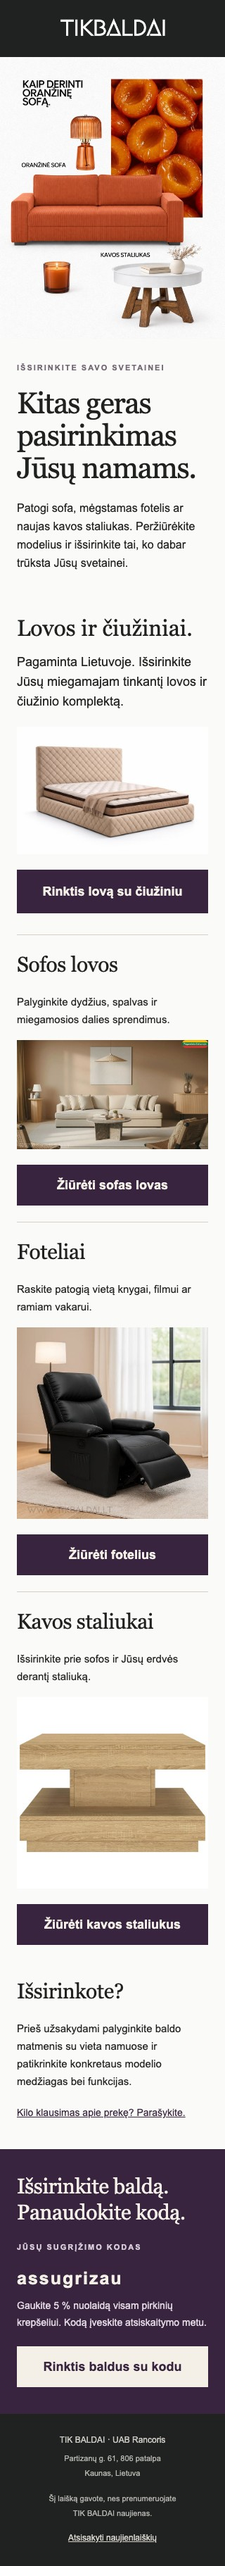
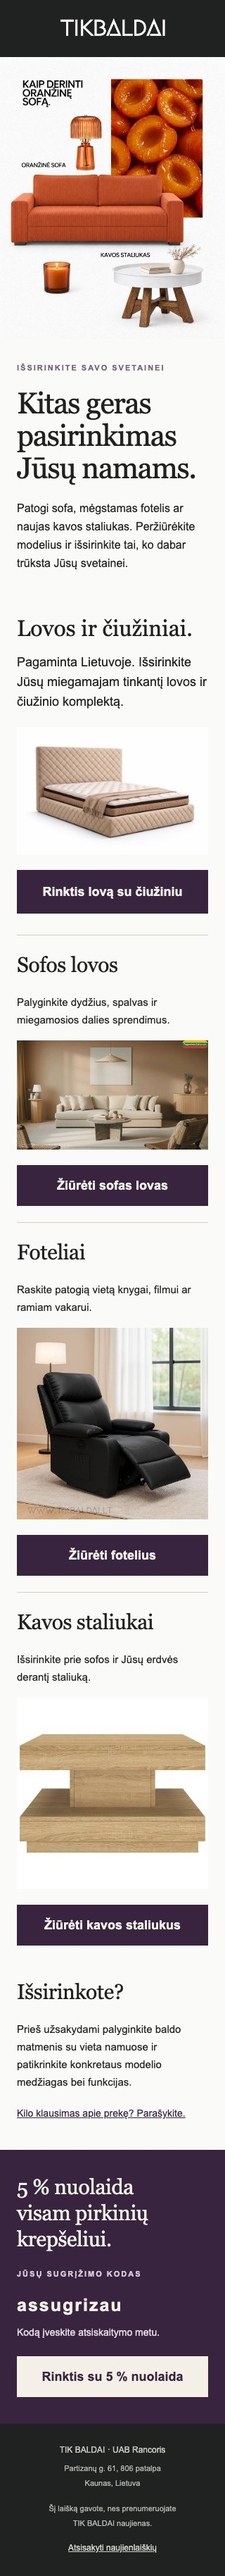
Make 5 percent winback offer prominent in final email

diff --git a/winback/email-03-stripped.html b/winback/email-03-stripped.html
@@ -11,5 +11,5 @@
 </td></tr><tr><td class="pad" bgcolor="#FAFAF8" align="left" style="padding:0 24px 10px;background-color:#FAFAF8;"><table class="shop-choice" role="presentation" width="100%" cellpadding="0" cellspacing="0" style="width:100%;border-top:1px solid #D7CFC5;"><tr><td style="padding:23px 0;"><h2 class="section-title" style="margin:0 0 22px;font:normal 30px/37px Georgia,Times New Roman,serif;letter-spacing:-.4px;color:#202221;">Sofos lovos</h2><p style="margin:0 0 17px;font:15px/25px Arial,Helvetica,sans-serif;color:#202221;">Palyginkite dydžius, spalvas ir miegamosios dalies sprendimus.</p><a href="https://tikbaldai.lt/collections/sofos-lovos?utm_source=automation&amp;utm_medium=email&amp;utm_campaign=winback_03&amp;utm_content=category_sofas" style="display:block;margin:4px 0 22px;"><img src="https://raw.githubusercontent.com/elaiskai/tikbaldai/0b7fb0ce9043a1ca71c5f79d17c7e15d7316c611/winback/assets/room.jpg" width="520" alt="Šviesi sofa svetainės interjere" style="display:block;width:100%;max-width:520px;height:auto;border:0;"></a><!--[if mso]><v:roundrect xmlns:v="urn:schemas-microsoft-com:vml" xmlns:w="urn:schemas-microsoft-com:office:word" href="https://tikbaldai.lt/collections/sofos-lovos?utm_source=automation&amp;utm_medium=email&amp;utm_campaign=winback_03&amp;utm_content=category_sofas" style="height:62px;v-text-anchor:middle;width:520px;" arcsize="0%" stroke="f" fillcolor="#38243F"><w:anchorlock/><center style="font-family:Arial;font-size:15px;font-weight:bold;color:#F4F0E8;">Žiūrėti sofas lovas</center></v:roundrect><![endif]-->
 <!--[if !mso]><!--><table role="presentation" cellpadding="0" cellspacing="0" border="0" width="100%" style="width:100%;"><tr><td bgcolor="#38243F"><a class="cta" href="https://tikbaldai.lt/collections/sofos-lovos?utm_source=automation&amp;utm_medium=email&amp;utm_campaign=winback_03&amp;utm_content=category_sofas" style="display:block;padding:16px 10px;font:700 18px/26px Arial,Helvetica,sans-serif;text-align:center;text-decoration:none;background-color:#38243F;color:#F4F0E8;">Žiūrėti sofas lovas</a></td></tr></table><!--<![endif]--></td></tr></table><table class="shop-choice" role="presentation" width="100%" cellpadding="0" cellspacing="0" style="width:100%;border-top:1px solid #D7CFC5;"><tr><td style="padding:23px 0;"><h2 class="section-title" style="margin:0 0 22px;font:normal 30px/37px Georgia,Times New Roman,serif;letter-spacing:-.4px;color:#202221;">Foteliai</h2><p style="margin:0 0 17px;font:15px/25px Arial,Helvetica,sans-serif;color:#202221;">Raskite patogią vietą knygai, filmui ar ramiam vakarui.</p><a href="https://tikbaldai.lt/collections/foteliai-kedes?utm_source=automation&amp;utm_medium=email&amp;utm_campaign=winback_03&amp;utm_content=category_armchairs" style="display:block;margin:4px 0 22px;"><img src="https://raw.githubusercontent.com/elaiskai/tikbaldai/0b7fb0ce9043a1ca71c5f79d17c7e15d7316c611/winback/assets/relax.jpg" width="520" alt="Fotelis su išskleidžiamu pakoju" style="display:block;width:100%;max-width:520px;height:auto;border:0;"></a><!--[if mso]><v:roundrect xmlns:v="urn:schemas-microsoft-com:vml" xmlns:w="urn:schemas-microsoft-com:office:word" href="https://tikbaldai.lt/collections/foteliai-kedes?utm_source=automation&amp;utm_medium=email&amp;utm_campaign=winback_03&amp;utm_content=category_armchairs" style="height:62px;v-text-anchor:middle;width:520px;" arcsize="0%" stroke="f" fillcolor="#38243F"><w:anchorlock/><center style="font-family:Arial;font-size:15px;font-weight:bold;color:#F4F0E8;">Žiūrėti fotelius</center></v:roundrect><![endif]-->
 <!--[if !mso]><!--><table role="presentation" cellpadding="0" cellspacing="0" border="0" width="100%" style="width:100%;"><tr><td bgcolor="#38243F"><a class="cta" href="https://tikbaldai.lt/collections/foteliai-kedes?utm_source=automation&amp;utm_medium=email&amp;utm_campaign=winback_03&amp;utm_content=category_armchairs" style="display:block;padding:16px 10px;font:700 18px/26px Arial,Helvetica,sans-serif;text-align:center;text-decoration:none;background-color:#38243F;color:#F4F0E8;">Žiūrėti fotelius</a></td></tr></table><!--<![endif]--></td></tr></table><table class="shop-choice" role="presentation" width="100%" cellpadding="0" cellspacing="0" style="width:100%;border-top:1px solid #D7CFC5;"><tr><td style="padding:23px 0;"><h2 class="section-title" style="margin:0 0 22px;font:normal 30px/37px Georgia,Times New Roman,serif;letter-spacing:-.4px;color:#202221;">Kavos staliukai</h2><p style="margin:0 0 17px;font:15px/25px Arial,Helvetica,sans-serif;color:#202221;">Išsirinkite prie sofos ir Jūsų erdvės derantį staliuką.</p><a href="https://tikbaldai.lt/collections/kavos-staliukai?utm_source=automation&amp;utm_medium=email&amp;utm_campaign=winback_03&amp;utm_content=category_tables" style="display:block;margin:4px 0 22px;"><img src="https://raw.githubusercontent.com/elaiskai/tikbaldai/0b7fb0ce9043a1ca71c5f79d17c7e15d7316c611/winback/assets/table.jpg" width="520" alt="Medžio atspalvio kavos staliukas" style="display:block;width:100%;max-width:520px;height:auto;border:0;"></a><!--[if mso]><v:roundrect xmlns:v="urn:schemas-microsoft-com:vml" xmlns:w="urn:schemas-microsoft-com:office:word" href="https://tikbaldai.lt/collections/kavos-staliukai?utm_source=automation&amp;utm_medium=email&amp;utm_campaign=winback_03&amp;utm_content=category_tables" style="height:62px;v-text-anchor:middle;width:520px;" arcsize="0%" stroke="f" fillcolor="#38243F"><w:anchorlock/><center style="font-family:Arial;font-size:15px;font-weight:bold;color:#F4F0E8;">Žiūrėti kavos staliukus</center></v:roundrect><![endif]-->
-<!--[if !mso]><!--><table role="presentation" cellpadding="0" cellspacing="0" border="0" width="100%" style="width:100%;"><tr><td bgcolor="#38243F"><a class="cta" href="https://tikbaldai.lt/collections/kavos-staliukai?utm_source=automation&amp;utm_medium=email&amp;utm_campaign=winback_03&amp;utm_content=category_tables" style="display:block;padding:16px 10px;font:700 18px/26px Arial,Helvetica,sans-serif;text-align:center;text-decoration:none;background-color:#38243F;color:#F4F0E8;">Žiūrėti kavos staliukus</a></td></tr></table><!--<![endif]--></td></tr></table></td></tr><tr><td class="pad" bgcolor="#FAFAF8" align="left" style="padding:14px 24px 28px;background-color:#FAFAF8;"><h2 class="section-title" style="margin:0 0 22px;font:normal 30px/37px Georgia,Times New Roman,serif;letter-spacing:-.4px;color:#202221;">Išsirinkote?</h2><p style="margin:0 0 8px;font:15px/25px Arial,Helvetica,sans-serif;color:#202221;">Prieš užsakydami palyginkite baldo matmenis su vieta namuose ir patikrinkite konkretaus modelio medžiagas bei funkcijas.</p><a class="cta" href="mailto:info@tikbaldai.lt" style="display:inline-block;padding:13px 0;font:14px/22px Arial,Helvetica,sans-serif;color:#38243F;text-decoration:underline;">Kilo klausimas apie prekę? Parašykite.</a></td></tr><tr><td class="pad" bgcolor="#38243F" align="left" style="padding:34px 24px 38px;background-color:#38243F;"><h2 class="section-title" style="margin:0 0 22px;font:normal 30px/37px Georgia,Times New Roman,serif;letter-spacing:-.4px;color:#F4F0E8;">Išsirinkite baldą.<br>Panaudokite kodą.</h2><p style="margin:0 0 18px;font:11px/18px Arial,Helvetica,sans-serif;font-weight:bold;letter-spacing:2px;color:#D7CBD9;">JŪSŲ SUGRĮŽIMO KODAS</p><p style="margin:0 0 10px;font:700 25px/34px Arial,Helvetica,sans-serif;letter-spacing:2px;color:#F4F0E8;">assugrizau</p><p style="margin:0;font:14px/24px Arial,Helvetica,sans-serif;color:#E1D8E2;">Gaukite 5 % nuolaidą visam pirkinių krepšeliui. Kodą įveskite atsiskaitymo metu.</p><div style="height:22px;line-height:22px;">&nbsp;</div><!--[if mso]><v:roundrect xmlns:v="urn:schemas-microsoft-com:vml" xmlns:w="urn:schemas-microsoft-com:office:word" href="https://tikbaldai.lt/collections/populiariausi?utm_source=automation&amp;utm_medium=email&amp;utm_campaign=winback_03&amp;utm_content=return_offer" style="height:62px;v-text-anchor:middle;width:520px;" arcsize="0%" stroke="f" fillcolor="#F4F0E8"><w:anchorlock/><center style="font-family:Arial;font-size:15px;font-weight:bold;color:#38243F;">Rinktis baldus su kodu</center></v:roundrect><![endif]-->
-<!--[if !mso]><!--><table role="presentation" cellpadding="0" cellspacing="0" border="0" width="100%" style="width:100%;"><tr><td bgcolor="#F4F0E8"><a class="cta" href="https://tikbaldai.lt/collections/populiariausi?utm_source=automation&amp;utm_medium=email&amp;utm_campaign=winback_03&amp;utm_content=return_offer" style="display:block;padding:16px 10px;font:700 18px/26px Arial,Helvetica,sans-serif;text-align:center;text-decoration:none;background-color:#F4F0E8;color:#38243F;">Rinktis baldus su kodu</a></td></tr></table><!--<![endif]--></td></tr><tr><td class="pad" bgcolor="#202221" align="center" style="padding:26px 24px 16px;background-color:#202221;"><p style="margin:0 0 5px;font:12px/22px Arial,Helvetica,sans-serif;color:#CAC9C3;">TIK BALDAI · UAB Rancoris</p><p style="margin:0 0 15px;font:11px/21px Arial,Helvetica,sans-serif;color:#B7B7B1;">Partizanų g. 61, 806 patalpa<br>Kaunas, Lietuva</p><p style="margin:0;font:11px/21px Arial,Helvetica,sans-serif;color:#B7B7B1;">Šį laišką gavote, nes prenumeruojate<br>TIK BALDAI naujienas.</p><a class="cta" href="[[unsubscribe_link]]" style="display:inline-block;padding:14px 0;font:12px/20px Arial,Helvetica,sans-serif;color:#D5D3CC;text-decoration:underline;">Atsisakyti naujienlaiškių</a></td></tr></table><!--[if mso]></td></tr></table><![endif]--></td></tr></table></body></html>
+<!--[if !mso]><!--><table role="presentation" cellpadding="0" cellspacing="0" border="0" width="100%" style="width:100%;"><tr><td bgcolor="#38243F"><a class="cta" href="https://tikbaldai.lt/collections/kavos-staliukai?utm_source=automation&amp;utm_medium=email&amp;utm_campaign=winback_03&amp;utm_content=category_tables" style="display:block;padding:16px 10px;font:700 18px/26px Arial,Helvetica,sans-serif;text-align:center;text-decoration:none;background-color:#38243F;color:#F4F0E8;">Žiūrėti kavos staliukus</a></td></tr></table><!--<![endif]--></td></tr></table></td></tr><tr><td class="pad" bgcolor="#FAFAF8" align="left" style="padding:14px 24px 28px;background-color:#FAFAF8;"><h2 class="section-title" style="margin:0 0 22px;font:normal 30px/37px Georgia,Times New Roman,serif;letter-spacing:-.4px;color:#202221;">Išsirinkote?</h2><p style="margin:0 0 8px;font:15px/25px Arial,Helvetica,sans-serif;color:#202221;">Prieš užsakydami palyginkite baldo matmenis su vieta namuose ir patikrinkite konkretaus modelio medžiagas bei funkcijas.</p><a class="cta" href="mailto:info@tikbaldai.lt" style="display:inline-block;padding:13px 0;font:14px/22px Arial,Helvetica,sans-serif;color:#38243F;text-decoration:underline;">Kilo klausimas apie prekę? Parašykite.</a></td></tr><tr><td class="pad" bgcolor="#38243F" align="left" style="padding:34px 24px 38px;background-color:#38243F;"><h2 class="section-title" style="margin:0 0 22px;font:normal 30px/37px Georgia,Times New Roman,serif;letter-spacing:-.4px;color:#F4F0E8;">5 % nuolaida<br>visam pirkinių krepšeliui.</h2><p style="margin:0 0 18px;font:11px/18px Arial,Helvetica,sans-serif;font-weight:bold;letter-spacing:2px;color:#D7CBD9;">JŪSŲ SUGRĮŽIMO KODAS</p><p style="margin:0 0 10px;font:700 25px/34px Arial,Helvetica,sans-serif;letter-spacing:2px;color:#F4F0E8;">assugrizau</p><p style="margin:0;font:14px/24px Arial,Helvetica,sans-serif;color:#E1D8E2;">Kodą įveskite atsiskaitymo metu.</p><div style="height:22px;line-height:22px;">&nbsp;</div><!--[if mso]><v:roundrect xmlns:v="urn:schemas-microsoft-com:vml" xmlns:w="urn:schemas-microsoft-com:office:word" href="https://tikbaldai.lt/collections/populiariausi?utm_source=automation&amp;utm_medium=email&amp;utm_campaign=winback_03&amp;utm_content=return_offer" style="height:62px;v-text-anchor:middle;width:520px;" arcsize="0%" stroke="f" fillcolor="#F4F0E8"><w:anchorlock/><center style="font-family:Arial;font-size:15px;font-weight:bold;color:#38243F;">Rinktis su 5 % nuolaida</center></v:roundrect><![endif]-->
+<!--[if !mso]><!--><table role="presentation" cellpadding="0" cellspacing="0" border="0" width="100%" style="width:100%;"><tr><td bgcolor="#F4F0E8"><a class="cta" href="https://tikbaldai.lt/collections/populiariausi?utm_source=automation&amp;utm_medium=email&amp;utm_campaign=winback_03&amp;utm_content=return_offer" style="display:block;padding:16px 10px;font:700 18px/26px Arial,Helvetica,sans-serif;text-align:center;text-decoration:none;background-color:#F4F0E8;color:#38243F;">Rinktis su 5 % nuolaida</a></td></tr></table><!--<![endif]--></td></tr><tr><td class="pad" bgcolor="#202221" align="center" style="padding:26px 24px 16px;background-color:#202221;"><p style="margin:0 0 5px;font:12px/22px Arial,Helvetica,sans-serif;color:#CAC9C3;">TIK BALDAI · UAB Rancoris</p><p style="margin:0 0 15px;font:11px/21px Arial,Helvetica,sans-serif;color:#B7B7B1;">Partizanų g. 61, 806 patalpa<br>Kaunas, Lietuva</p><p style="margin:0;font:11px/21px Arial,Helvetica,sans-serif;color:#B7B7B1;">Šį laišką gavote, nes prenumeruojate<br>TIK BALDAI naujienas.</p><a class="cta" href="[[unsubscribe_link]]" style="display:inline-block;padding:14px 0;font:12px/20px Arial,Helvetica,sans-serif;color:#D5D3CC;text-decoration:underline;">Atsisakyti naujienlaiškių</a></td></tr></table><!--[if mso]></td></tr></table><![endif]--></td></tr></table></body></html>

diff --git a/winback/email-03.html b/winback/email-03.html
@@ -11,5 +11,5 @@
 </td></tr><tr><td class="pad" bgcolor="#FAFAF8" align="left" style="padding:0 24px 10px;background-color:#FAFAF8;"><table class="shop-choice" role="presentation" width="100%" cellpadding="0" cellspacing="0" style="width:100%;border-top:1px solid #D7CFC5;"><tr><td style="padding:23px 0;"><h2 class="section-title" style="margin:0 0 22px;font:normal 30px/37px Georgia,Times New Roman,serif;letter-spacing:-.4px;color:#202221;">Sofos lovos</h2><p style="margin:0 0 17px;font:15px/25px Arial,Helvetica,sans-serif;color:#202221;">Palyginkite dydžius, spalvas ir miegamosios dalies sprendimus.</p><a href="https://tikbaldai.lt/collections/sofos-lovos?utm_source=automation&amp;utm_medium=email&amp;utm_campaign=winback_03&amp;utm_content=category_sofas" style="display:block;margin:4px 0 22px;"><img src="https://raw.githubusercontent.com/elaiskai/tikbaldai/0b7fb0ce9043a1ca71c5f79d17c7e15d7316c611/winback/assets/room.jpg" width="520" alt="Šviesi sofa svetainės interjere" style="display:block;width:100%;max-width:520px;height:auto;border:0;"></a><!--[if mso]><v:roundrect xmlns:v="urn:schemas-microsoft-com:vml" xmlns:w="urn:schemas-microsoft-com:office:word" href="https://tikbaldai.lt/collections/sofos-lovos?utm_source=automation&amp;utm_medium=email&amp;utm_campaign=winback_03&amp;utm_content=category_sofas" style="height:62px;v-text-anchor:middle;width:520px;" arcsize="0%" stroke="f" fillcolor="#38243F"><w:anchorlock/><center style="font-family:Arial;font-size:15px;font-weight:bold;color:#F4F0E8;">Žiūrėti sofas lovas</center></v:roundrect><![endif]-->
 <!--[if !mso]><!--><table role="presentation" cellpadding="0" cellspacing="0" border="0" width="100%" style="width:100%;"><tr><td bgcolor="#38243F"><a class="cta" href="https://tikbaldai.lt/collections/sofos-lovos?utm_source=automation&amp;utm_medium=email&amp;utm_campaign=winback_03&amp;utm_content=category_sofas" style="display:block;padding:16px 10px;font:700 18px/26px Arial,Helvetica,sans-serif;text-align:center;text-decoration:none;background-color:#38243F;color:#F4F0E8;">Žiūrėti sofas lovas</a></td></tr></table><!--<![endif]--></td></tr></table><table class="shop-choice" role="presentation" width="100%" cellpadding="0" cellspacing="0" style="width:100%;border-top:1px solid #D7CFC5;"><tr><td style="padding:23px 0;"><h2 class="section-title" style="margin:0 0 22px;font:normal 30px/37px Georgia,Times New Roman,serif;letter-spacing:-.4px;color:#202221;">Foteliai</h2><p style="margin:0 0 17px;font:15px/25px Arial,Helvetica,sans-serif;color:#202221;">Raskite patogią vietą knygai, filmui ar ramiam vakarui.</p><a href="https://tikbaldai.lt/collections/foteliai-kedes?utm_source=automation&amp;utm_medium=email&amp;utm_campaign=winback_03&amp;utm_content=category_armchairs" style="display:block;margin:4px 0 22px;"><img src="https://raw.githubusercontent.com/elaiskai/tikbaldai/0b7fb0ce9043a1ca71c5f79d17c7e15d7316c611/winback/assets/relax.jpg" width="520" alt="Fotelis su išskleidžiamu pakoju" style="display:block;width:100%;max-width:520px;height:auto;border:0;"></a><!--[if mso]><v:roundrect xmlns:v="urn:schemas-microsoft-com:vml" xmlns:w="urn:schemas-microsoft-com:office:word" href="https://tikbaldai.lt/collections/foteliai-kedes?utm_source=automation&amp;utm_medium=email&amp;utm_campaign=winback_03&amp;utm_content=category_armchairs" style="height:62px;v-text-anchor:middle;width:520px;" arcsize="0%" stroke="f" fillcolor="#38243F"><w:anchorlock/><center style="font-family:Arial;font-size:15px;font-weight:bold;color:#F4F0E8;">Žiūrėti fotelius</center></v:roundrect><![endif]-->
 <!--[if !mso]><!--><table role="presentation" cellpadding="0" cellspacing="0" border="0" width="100%" style="width:100%;"><tr><td bgcolor="#38243F"><a class="cta" href="https://tikbaldai.lt/collections/foteliai-kedes?utm_source=automation&amp;utm_medium=email&amp;utm_campaign=winback_03&amp;utm_content=category_armchairs" style="display:block;padding:16px 10px;font:700 18px/26px Arial,Helvetica,sans-serif;text-align:center;text-decoration:none;background-color:#38243F;color:#F4F0E8;">Žiūrėti fotelius</a></td></tr></table><!--<![endif]--></td></tr></table><table class="shop-choice" role="presentation" width="100%" cellpadding="0" cellspacing="0" style="width:100%;border-top:1px solid #D7CFC5;"><tr><td style="padding:23px 0;"><h2 class="section-title" style="margin:0 0 22px;font:normal 30px/37px Georgia,Times New Roman,serif;letter-spacing:-.4px;color:#202221;">Kavos staliukai</h2><p style="margin:0 0 17px;font:15px/25px Arial,Helvetica,sans-serif;color:#202221;">Išsirinkite prie sofos ir Jūsų erdvės derantį staliuką.</p><a href="https://tikbaldai.lt/collections/kavos-staliukai?utm_source=automation&amp;utm_medium=email&amp;utm_campaign=winback_03&amp;utm_content=category_tables" style="display:block;margin:4px 0 22px;"><img src="https://raw.githubusercontent.com/elaiskai/tikbaldai/0b7fb0ce9043a1ca71c5f79d17c7e15d7316c611/winback/assets/table.jpg" width="520" alt="Medžio atspalvio kavos staliukas" style="display:block;width:100%;max-width:520px;height:auto;border:0;"></a><!--[if mso]><v:roundrect xmlns:v="urn:schemas-microsoft-com:vml" xmlns:w="urn:schemas-microsoft-com:office:word" href="https://tikbaldai.lt/collections/kavos-staliukai?utm_source=automation&amp;utm_medium=email&amp;utm_campaign=winback_03&amp;utm_content=category_tables" style="height:62px;v-text-anchor:middle;width:520px;" arcsize="0%" stroke="f" fillcolor="#38243F"><w:anchorlock/><center style="font-family:Arial;font-size:15px;font-weight:bold;color:#F4F0E8;">Žiūrėti kavos staliukus</center></v:roundrect><![endif]-->
-<!--[if !mso]><!--><table role="presentation" cellpadding="0" cellspacing="0" border="0" width="100%" style="width:100%;"><tr><td bgcolor="#38243F"><a class="cta" href="https://tikbaldai.lt/collections/kavos-staliukai?utm_source=automation&amp;utm_medium=email&amp;utm_campaign=winback_03&amp;utm_content=category_tables" style="display:block;padding:16px 10px;font:700 18px/26px Arial,Helvetica,sans-serif;text-align:center;text-decoration:none;background-color:#38243F;color:#F4F0E8;">Žiūrėti kavos staliukus</a></td></tr></table><!--<![endif]--></td></tr></table></td></tr><tr><td class="pad" bgcolor="#FAFAF8" align="left" style="padding:14px 24px 28px;background-color:#FAFAF8;"><h2 class="section-title" style="margin:0 0 22px;font:normal 30px/37px Georgia,Times New Roman,serif;letter-spacing:-.4px;color:#202221;">Išsirinkote?</h2><p style="margin:0 0 8px;font:15px/25px Arial,Helvetica,sans-serif;color:#202221;">Prieš užsakydami palyginkite baldo matmenis su vieta namuose ir patikrinkite konkretaus modelio medžiagas bei funkcijas.</p><a class="cta" href="mailto:info@tikbaldai.lt" style="display:inline-block;padding:13px 0;font:14px/22px Arial,Helvetica,sans-serif;color:#38243F;text-decoration:underline;">Kilo klausimas apie prekę? Parašykite.</a></td></tr><tr><td class="pad" bgcolor="#38243F" align="left" style="padding:34px 24px 38px;background-color:#38243F;"><h2 class="section-title" style="margin:0 0 22px;font:normal 30px/37px Georgia,Times New Roman,serif;letter-spacing:-.4px;color:#F4F0E8;">Išsirinkite baldą.<br>Panaudokite kodą.</h2><p style="margin:0 0 18px;font:11px/18px Arial,Helvetica,sans-serif;font-weight:bold;letter-spacing:2px;color:#D7CBD9;">JŪSŲ SUGRĮŽIMO KODAS</p><p style="margin:0 0 10px;font:700 25px/34px Arial,Helvetica,sans-serif;letter-spacing:2px;color:#F4F0E8;">assugrizau</p><p style="margin:0;font:14px/24px Arial,Helvetica,sans-serif;color:#E1D8E2;">Gaukite 5 % nuolaidą visam pirkinių krepšeliui. Kodą įveskite atsiskaitymo metu.</p><div style="height:22px;line-height:22px;">&nbsp;</div><!--[if mso]><v:roundrect xmlns:v="urn:schemas-microsoft-com:vml" xmlns:w="urn:schemas-microsoft-com:office:word" href="https://tikbaldai.lt/collections/populiariausi?utm_source=automation&amp;utm_medium=email&amp;utm_campaign=winback_03&amp;utm_content=return_offer" style="height:62px;v-text-anchor:middle;width:520px;" arcsize="0%" stroke="f" fillcolor="#F4F0E8"><w:anchorlock/><center style="font-family:Arial;font-size:15px;font-weight:bold;color:#38243F;">Rinktis baldus su kodu</center></v:roundrect><![endif]-->
-<!--[if !mso]><!--><table role="presentation" cellpadding="0" cellspacing="0" border="0" width="100%" style="width:100%;"><tr><td bgcolor="#F4F0E8"><a class="cta" href="https://tikbaldai.lt/collections/populiariausi?utm_source=automation&amp;utm_medium=email&amp;utm_campaign=winback_03&amp;utm_content=return_offer" style="display:block;padding:16px 10px;font:700 18px/26px Arial,Helvetica,sans-serif;text-align:center;text-decoration:none;background-color:#F4F0E8;color:#38243F;">Rinktis baldus su kodu</a></td></tr></table><!--<![endif]--></td></tr><tr><td class="pad" bgcolor="#202221" align="center" style="padding:26px 24px 16px;background-color:#202221;"><p style="margin:0 0 5px;font:12px/22px Arial,Helvetica,sans-serif;color:#CAC9C3;">TIK BALDAI · UAB Rancoris</p><p style="margin:0 0 15px;font:11px/21px Arial,Helvetica,sans-serif;color:#B7B7B1;">Partizanų g. 61, 806 patalpa<br>Kaunas, Lietuva</p><p style="margin:0;font:11px/21px Arial,Helvetica,sans-serif;color:#B7B7B1;">Šį laišką gavote, nes prenumeruojate<br>TIK BALDAI naujienas.</p><a class="cta" href="[[unsubscribe_link]]" style="display:inline-block;padding:14px 0;font:12px/20px Arial,Helvetica,sans-serif;color:#D5D3CC;text-decoration:underline;">Atsisakyti naujienlaiškių</a></td></tr></table><!--[if mso]></td></tr></table><![endif]--></td></tr></table></body></html>
+<!--[if !mso]><!--><table role="presentation" cellpadding="0" cellspacing="0" border="0" width="100%" style="width:100%;"><tr><td bgcolor="#38243F"><a class="cta" href="https://tikbaldai.lt/collections/kavos-staliukai?utm_source=automation&amp;utm_medium=email&amp;utm_campaign=winback_03&amp;utm_content=category_tables" style="display:block;padding:16px 10px;font:700 18px/26px Arial,Helvetica,sans-serif;text-align:center;text-decoration:none;background-color:#38243F;color:#F4F0E8;">Žiūrėti kavos staliukus</a></td></tr></table><!--<![endif]--></td></tr></table></td></tr><tr><td class="pad" bgcolor="#FAFAF8" align="left" style="padding:14px 24px 28px;background-color:#FAFAF8;"><h2 class="section-title" style="margin:0 0 22px;font:normal 30px/37px Georgia,Times New Roman,serif;letter-spacing:-.4px;color:#202221;">Išsirinkote?</h2><p style="margin:0 0 8px;font:15px/25px Arial,Helvetica,sans-serif;color:#202221;">Prieš užsakydami palyginkite baldo matmenis su vieta namuose ir patikrinkite konkretaus modelio medžiagas bei funkcijas.</p><a class="cta" href="mailto:info@tikbaldai.lt" style="display:inline-block;padding:13px 0;font:14px/22px Arial,Helvetica,sans-serif;color:#38243F;text-decoration:underline;">Kilo klausimas apie prekę? Parašykite.</a></td></tr><tr><td class="pad" bgcolor="#38243F" align="left" style="padding:34px 24px 38px;background-color:#38243F;"><h2 class="section-title" style="margin:0 0 22px;font:normal 30px/37px Georgia,Times New Roman,serif;letter-spacing:-.4px;color:#F4F0E8;">5 % nuolaida<br>visam pirkinių krepšeliui.</h2><p style="margin:0 0 18px;font:11px/18px Arial,Helvetica,sans-serif;font-weight:bold;letter-spacing:2px;color:#D7CBD9;">JŪSŲ SUGRĮŽIMO KODAS</p><p style="margin:0 0 10px;font:700 25px/34px Arial,Helvetica,sans-serif;letter-spacing:2px;color:#F4F0E8;">assugrizau</p><p style="margin:0;font:14px/24px Arial,Helvetica,sans-serif;color:#E1D8E2;">Kodą įveskite atsiskaitymo metu.</p><div style="height:22px;line-height:22px;">&nbsp;</div><!--[if mso]><v:roundrect xmlns:v="urn:schemas-microsoft-com:vml" xmlns:w="urn:schemas-microsoft-com:office:word" href="https://tikbaldai.lt/collections/populiariausi?utm_source=automation&amp;utm_medium=email&amp;utm_campaign=winback_03&amp;utm_content=return_offer" style="height:62px;v-text-anchor:middle;width:520px;" arcsize="0%" stroke="f" fillcolor="#F4F0E8"><w:anchorlock/><center style="font-family:Arial;font-size:15px;font-weight:bold;color:#38243F;">Rinktis su 5 % nuolaida</center></v:roundrect><![endif]-->
+<!--[if !mso]><!--><table role="presentation" cellpadding="0" cellspacing="0" border="0" width="100%" style="width:100%;"><tr><td bgcolor="#F4F0E8"><a class="cta" href="https://tikbaldai.lt/collections/populiariausi?utm_source=automation&amp;utm_medium=email&amp;utm_campaign=winback_03&amp;utm_content=return_offer" style="display:block;padding:16px 10px;font:700 18px/26px Arial,Helvetica,sans-serif;text-align:center;text-decoration:none;background-color:#F4F0E8;color:#38243F;">Rinktis su 5 % nuolaida</a></td></tr></table><!--<![endif]--></td></tr><tr><td class="pad" bgcolor="#202221" align="center" style="padding:26px 24px 16px;background-color:#202221;"><p style="margin:0 0 5px;font:12px/22px Arial,Helvetica,sans-serif;color:#CAC9C3;">TIK BALDAI · UAB Rancoris</p><p style="margin:0 0 15px;font:11px/21px Arial,Helvetica,sans-serif;color:#B7B7B1;">Partizanų g. 61, 806 patalpa<br>Kaunas, Lietuva</p><p style="margin:0;font:11px/21px Arial,Helvetica,sans-serif;color:#B7B7B1;">Šį laišką gavote, nes prenumeruojate<br>TIK BALDAI naujienas.</p><a class="cta" href="[[unsubscribe_link]]" style="display:inline-block;padding:14px 0;font:12px/20px Arial,Helvetica,sans-serif;color:#D5D3CC;text-decoration:underline;">Atsisakyti naujienlaiškių</a></td></tr></table><!--[if mso]></td></tr></table><![endif]--></td></tr></table></body></html>
